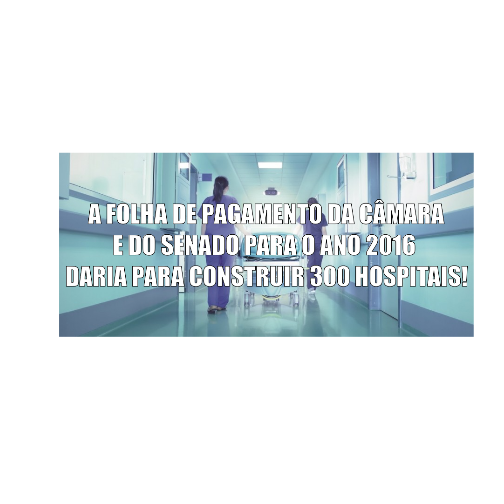
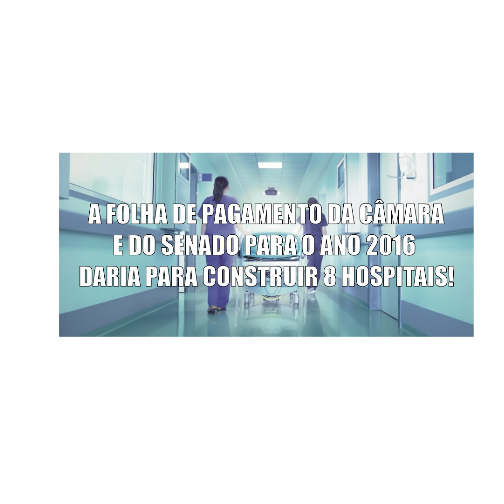
conversão dos dados

Changed region(s): [[0.119, 0.506, 0.9524, 0.5952]]

diff --git a/_site/2017/08/o-que-da-para-fazer.html b/_site/2017/08/o-que-da-para-fazer.html
@@ -38,7 +38,69 @@
   </header>
 
   <article class="post-content">
-    
+    <ul>
+  <li><strong>Quanto vale a remuneração dos deputados?</strong></li>
+</ul>
+
+<p>Para se ter noção dos elevados salários dos deputados, se considerarmos a remuneração líquida de todos eles em  2016, isto é, a remuneração já descontada do imposto de renda, seria o suficiente para custear 3.3015 × 10<sup>4</sup> alunos de doutorado com bolsa CAPES (R$ 2.200,00) por 687 anos, de acordo com os dados coletados do site da transparência da Câmara.</p>
+
+<p><img src="/blogfigure/source/09-o-que-da-para-fazer/2017-08-03-o-que-da-para-fazer/capes-1.png" alt="" /></p>
+
+<p>Informação complementar:</p>
+
+<p><a href="http://www.capes.gov.br/bolsas/valores-de-bolsas">Valores de Bolsas (acessado em 7 de agosto de 2017)</a></p>
+
+<ul>
+  <li><strong>Quanto vale a Licença-Prêmio de apenas dez servidores?</strong></li>
+</ul>
+
+<p>A licença-prêmio é um antigo direito garantido por lei que ainda benecifia diversos servidores do Senado. Para se ter uma ideia, somente em 2017, os dez servidores mais beneficiados pela Licença-prêmio daria para adquirir 27 ambulâncias.</p>
+
+<p><img src="/blogfigure/source/09-o-que-da-para-fazer/2017-08-03-o-que-da-para-fazer/samu-1.png" alt="" /></p>
+
+<p>Informação complementar:</p>
+
+<p><a href="http://www.otempo.com.br/cidades/dezenove-ambul%C3%A2ncias-do-samu-est%C3%A3o-paradas-em-galp%C3%A3o-1.1436254">Dezenove ambulâncias do Samu estão paradas em galpão (acessado em 7 de agosto de 2017)</a></p>
+
+<p><a href="https://sindilegis.org.br/noticias/sindilegis-solicita-ao-senado-e-tcu-conversao-da-licenaa-pramio-nao-usufrua-da-em-pecania/388">Sindilegis solicita ao Senado e TCU conversão da licença-prêmio não usufruída em pecúnia (acessado em 7 de agosto de 2017)</a></p>
+
+<ul>
+  <li><strong>O que um deputado tem a ver com empregado(as) domésticos(as)?</strong></li>
+</ul>
+
+<p><img src="/blogfigure/source/09-o-que-da-para-fazer/2017-08-03-o-que-da-para-fazer/empregado-1.png" alt="" /></p>
+
+<p>Informação complementar:</p>
+
+<p><a href="https://www.domesticalegal.com.br/utilidades/tabela-de-inss/">Percentuais da contribuição previdenciária (INSS) de patrões e empregados domésticos (acessado em 7 de agosto de 2017)</a></p>
+
+<ul>
+  <li><strong>Quantos hospitais dariam para construir?</strong></li>
+</ul>
+
+<p><img src="/blogfigure/source/09-o-que-da-para-fazer/2017-08-03-o-que-da-para-fazer/hospital-1.png" alt="" /></p>
+
+<p>Informação complementar:</p>
+
+<p><a href="http://g1.globo.com/espirito-santo/noticia/2016/08/hospital-de-cariacica-vai-ter-edital-lancado-pelo-governo-do-es.html">Hospital de Cariacica vai ter edital lançado pelo governo do ES (acessado em 7 de agosto de 2017)</a></p>
+
+<p><a href="http://g1.globo.com/economia/noticia/inflacao-oficial-fecha-2016-em-629-diz-ibge.ghtml">Inflação oficial fecha 2016 em 6,29%, diz IBGE (acessado em 7 de agosto de 2017)</a></p>
+
+<ul>
+  <li><strong>Qual a vazão de pagamento da Câmara e do Senado por segundo?</strong></li>
+</ul>
+
+<p><img src="/blogfigure/source/09-o-que-da-para-fazer/2017-08-03-o-que-da-para-fazer/brasilia-1.png" alt="" /></p>
+
+<ul>
+  <li><strong>A folha de pagamento do Senado para aposentados é mesmo alta?</strong></li>
+</ul>
+
+<p><img src="/blogfigure/source/09-o-que-da-para-fazer/2017-08-03-o-que-da-para-fazer/neymar-1.png" alt="" /></p>
+
+<p>Informação complementar:</p>
+
+<p><a href="https://brasil.elpais.com/brasil/2017/07/25/deportes/1501004224_762708.html">‘Fair Play’ financeiro complica contratação de Neymar pelo PSG (acessado em 7 de agosto de 2017)</a></p>
 
   </article>
 

diff --git a/_posts/2017-08-03-o-que-da-para-fazer.md b/_posts/2017-08-03-o-que-da-para-fazer.md
@@ -13,13 +13,71 @@ layout: post
 
 
 
+* **Quanto vale a remuneração dos deputados?**
+
+
+
+Para se ter noção dos elevados salários dos deputados, se considerarmos a remuneração líquida de todos eles em  2016, isto é, a remuneração já descontada do imposto de renda, seria o suficiente para custear 3.3015 &times; 10<sup>4</sup> alunos de doutorado com bolsa CAPES (R$ 2.200,00) por 687 anos, de acordo com os dados coletados do site da transparência da Câmara.
+
+![](/blogfigure/source/09-o-que-da-para-fazer/2017-08-03-o-que-da-para-fazer/capes-1.png)
+
+Informação complementar:
+
+[Valores de Bolsas (acessado em 7 de agosto de 2017)](http://www.capes.gov.br/bolsas/valores-de-bolsas)
+
+
+
+
+* **Quanto vale a Licença-Prêmio de apenas dez servidores?**
+
+
+
+A licença-prêmio é um antigo direito garantido por lei que ainda benecifia diversos servidores do Senado. Para se ter uma ideia, somente em 2017, os dez servidores mais beneficiados pela Licença-prêmio daria para adquirir 27 ambulâncias.
+
+![](/blogfigure/source/09-o-que-da-para-fazer/2017-08-03-o-que-da-para-fazer/samu-1.png)
+
+Informação complementar:
+
+[Dezenove ambulâncias do Samu estão paradas em galpão (acessado em 7 de agosto de 2017)](http://www.otempo.com.br/cidades/dezenove-ambul%C3%A2ncias-do-samu-est%C3%A3o-paradas-em-galp%C3%A3o-1.1436254)
+
+[Sindilegis solicita ao Senado e TCU conversão da licença-prêmio não usufruída em pecúnia (acessado em 7 de agosto de 2017)](https://sindilegis.org.br/noticias/sindilegis-solicita-ao-senado-e-tcu-conversao-da-licenaa-pramio-nao-usufrua-da-em-pecania/388)
+
+
+* **O que um deputado tem a ver com empregado(as) domésticos(as)?**
+
+![](/blogfigure/source/09-o-que-da-para-fazer/2017-08-03-o-que-da-para-fazer/empregado-1.png)
+
+Informação complementar:
+
+[Percentuais da contribuição previdenciária (INSS) de patrões e empregados domésticos (acessado em 7 de agosto de 2017)](https://www.domesticalegal.com.br/utilidades/tabela-de-inss/)
+
+
+
+
+* **Quantos hospitais dariam para construir?**
+
+![](/blogfigure/source/09-o-que-da-para-fazer/2017-08-03-o-que-da-para-fazer/hospital-1.png)
+
+Informação complementar:
+
+[Hospital de Cariacica vai ter edital lançado pelo governo do ES (acessado em 7 de agosto de 2017)](http://g1.globo.com/espirito-santo/noticia/2016/08/hospital-de-cariacica-vai-ter-edital-lancado-pelo-governo-do-es.html)
+
+[Inflação oficial fecha 2016 em 6,29%, diz IBGE (acessado em 7 de agosto de 2017)](http://g1.globo.com/economia/noticia/inflacao-oficial-fecha-2016-em-629-diz-ibge.ghtml)
+
+
+
+* **Qual a vazão de pagamento da Câmara e do Senado por segundo?**
+
+![](/blogfigure/source/09-o-que-da-para-fazer/2017-08-03-o-que-da-para-fazer/brasilia-1.png)
 
 
 
 
 
+* **A folha de pagamento do Senado para aposentados é mesmo alta?**
 
+![](/blogfigure/source/09-o-que-da-para-fazer/2017-08-03-o-que-da-para-fazer/neymar-1.png)
 
+Informação complementar:
 
-
-
+[‘Fair Play’ financeiro complica contratação de Neymar pelo PSG (acessado em 7 de agosto de 2017)](https://brasil.elpais.com/brasil/2017/07/25/deportes/1501004224_762708.html)
